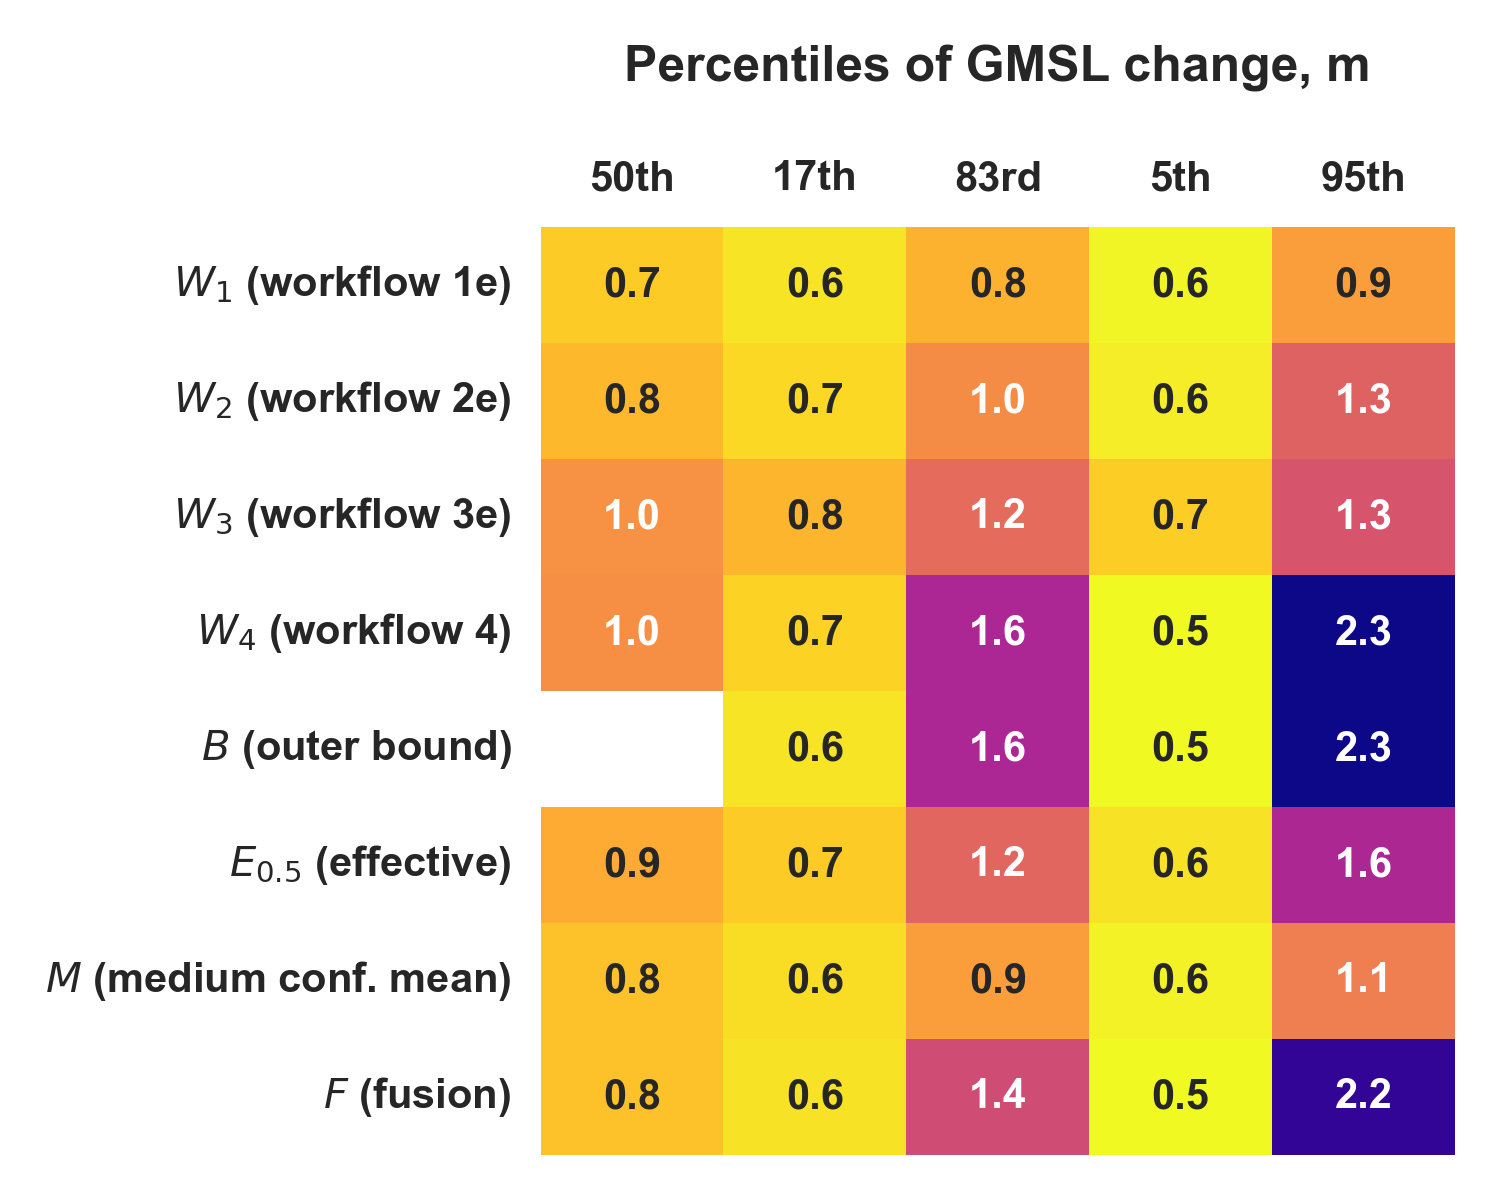
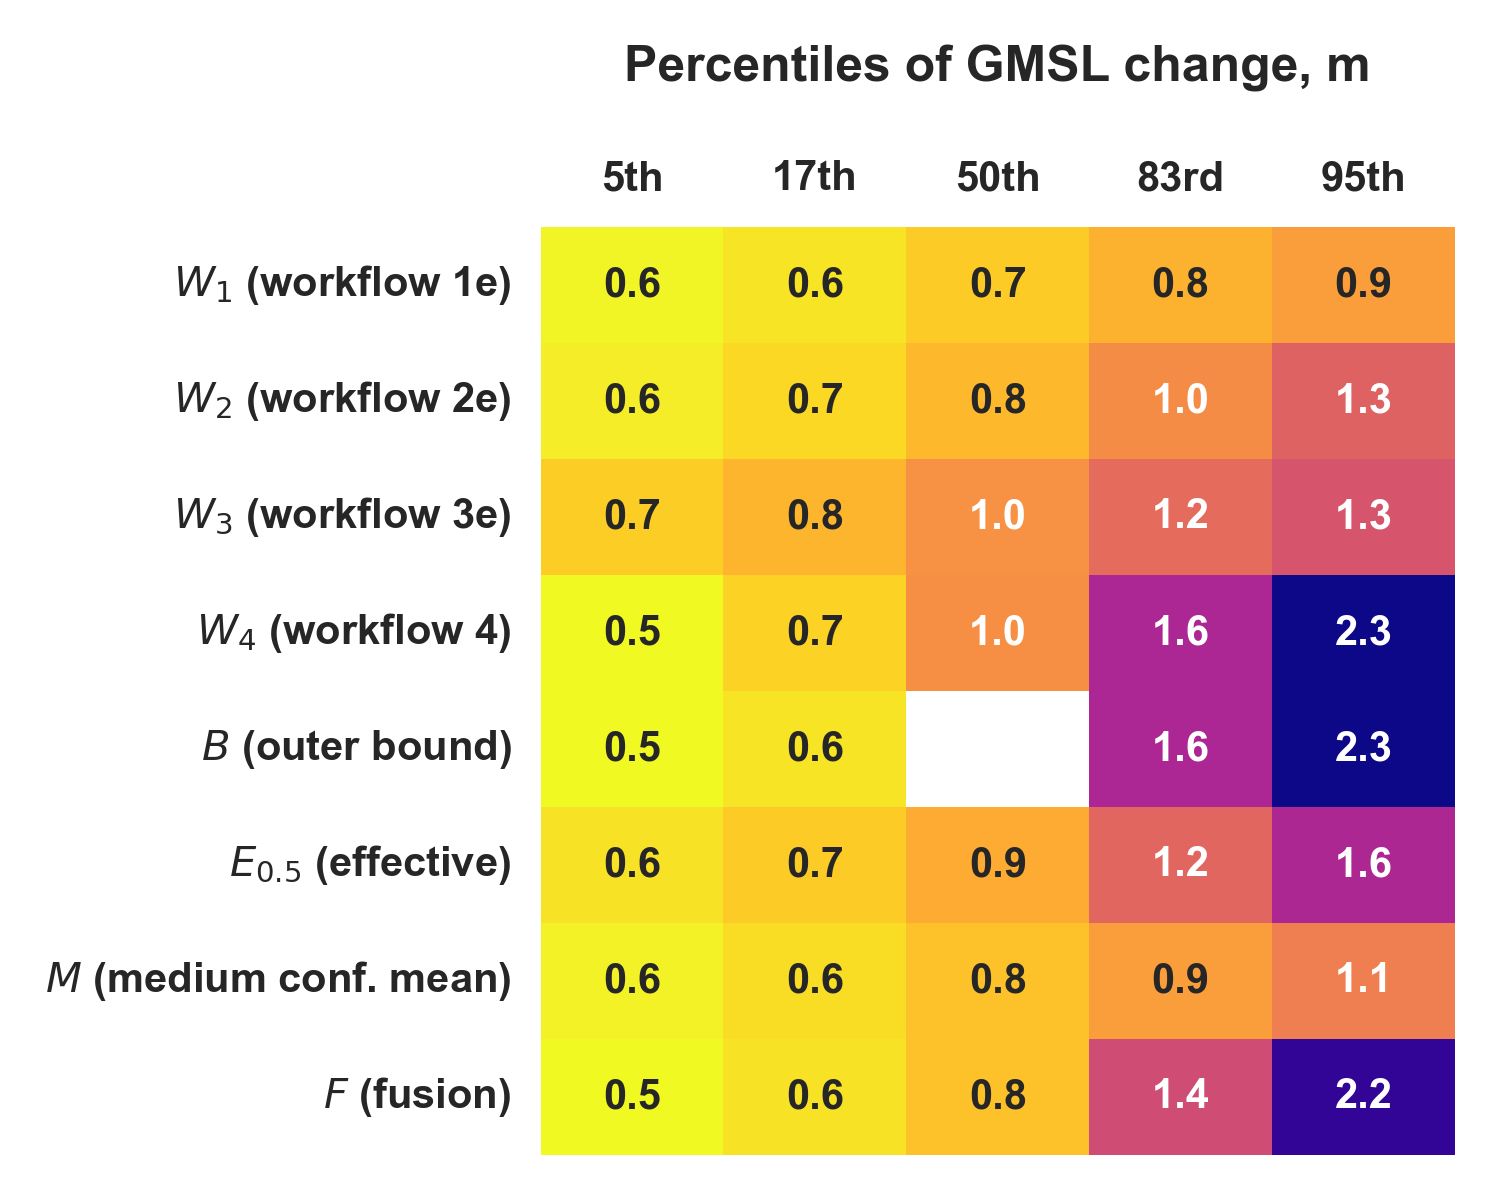
d23a.py plot_percentiles_heatmap(): change default ordering of percentiles.

Changed region(s): [[0.5827, 0.1233, 0.8587, 0.9867], [0.3373, 0.1233, 0.4907, 0.9867], [0.644, 0.1233, 0.7053, 0.1542]]

diff --git a/d23a.py b/d23a.py
@@ -579,7 +579,7 @@ def plot_exceedance_heatmap(threshold=1.5, workflows=('lower', 'fusion_1e+2e', '
     return ax
 
 
-def plot_percentiles_heatmap(percentiles=('50th', '17th', '83rd', '5th', '95th'),
+def plot_percentiles_heatmap(percentiles=('5th', '17th', '50th', '83rd', '95th'),
                              workflows=('wf_1e', 'wf_2e', 'wf_3e', 'wf_4', 'outer', 'effective_0.5', 'mean_1e+2e',
                                         'fusion_1e+2e'),
                              rate=False, scenario='ssp585', year=2100, gauge=None, fmt='.1f', ax=None):
@@ -589,7 +589,7 @@ def plot_percentiles_heatmap(percentiles=('50th', '17th', '83rd', '5th', '95th')
     Parameters
     ----------
     percentiles : tuple of str
-        List containing percentiles, for table columns. Default is ('50th', '17th', '83rd', '5th', '95th').
+        List containing percentiles, for table columns. Default is ('5th', '17th', '50th', '83rd', '95th').
     workflows : tuple of str
         List containing workflows etc, for table rows.
         Default is ('wf_1e', 'wf_2e', 'wf_3e', 'wf_4', 'outer', 'effective_0.5', 'mean_1e+2e', 'fusion_1e+2e')
